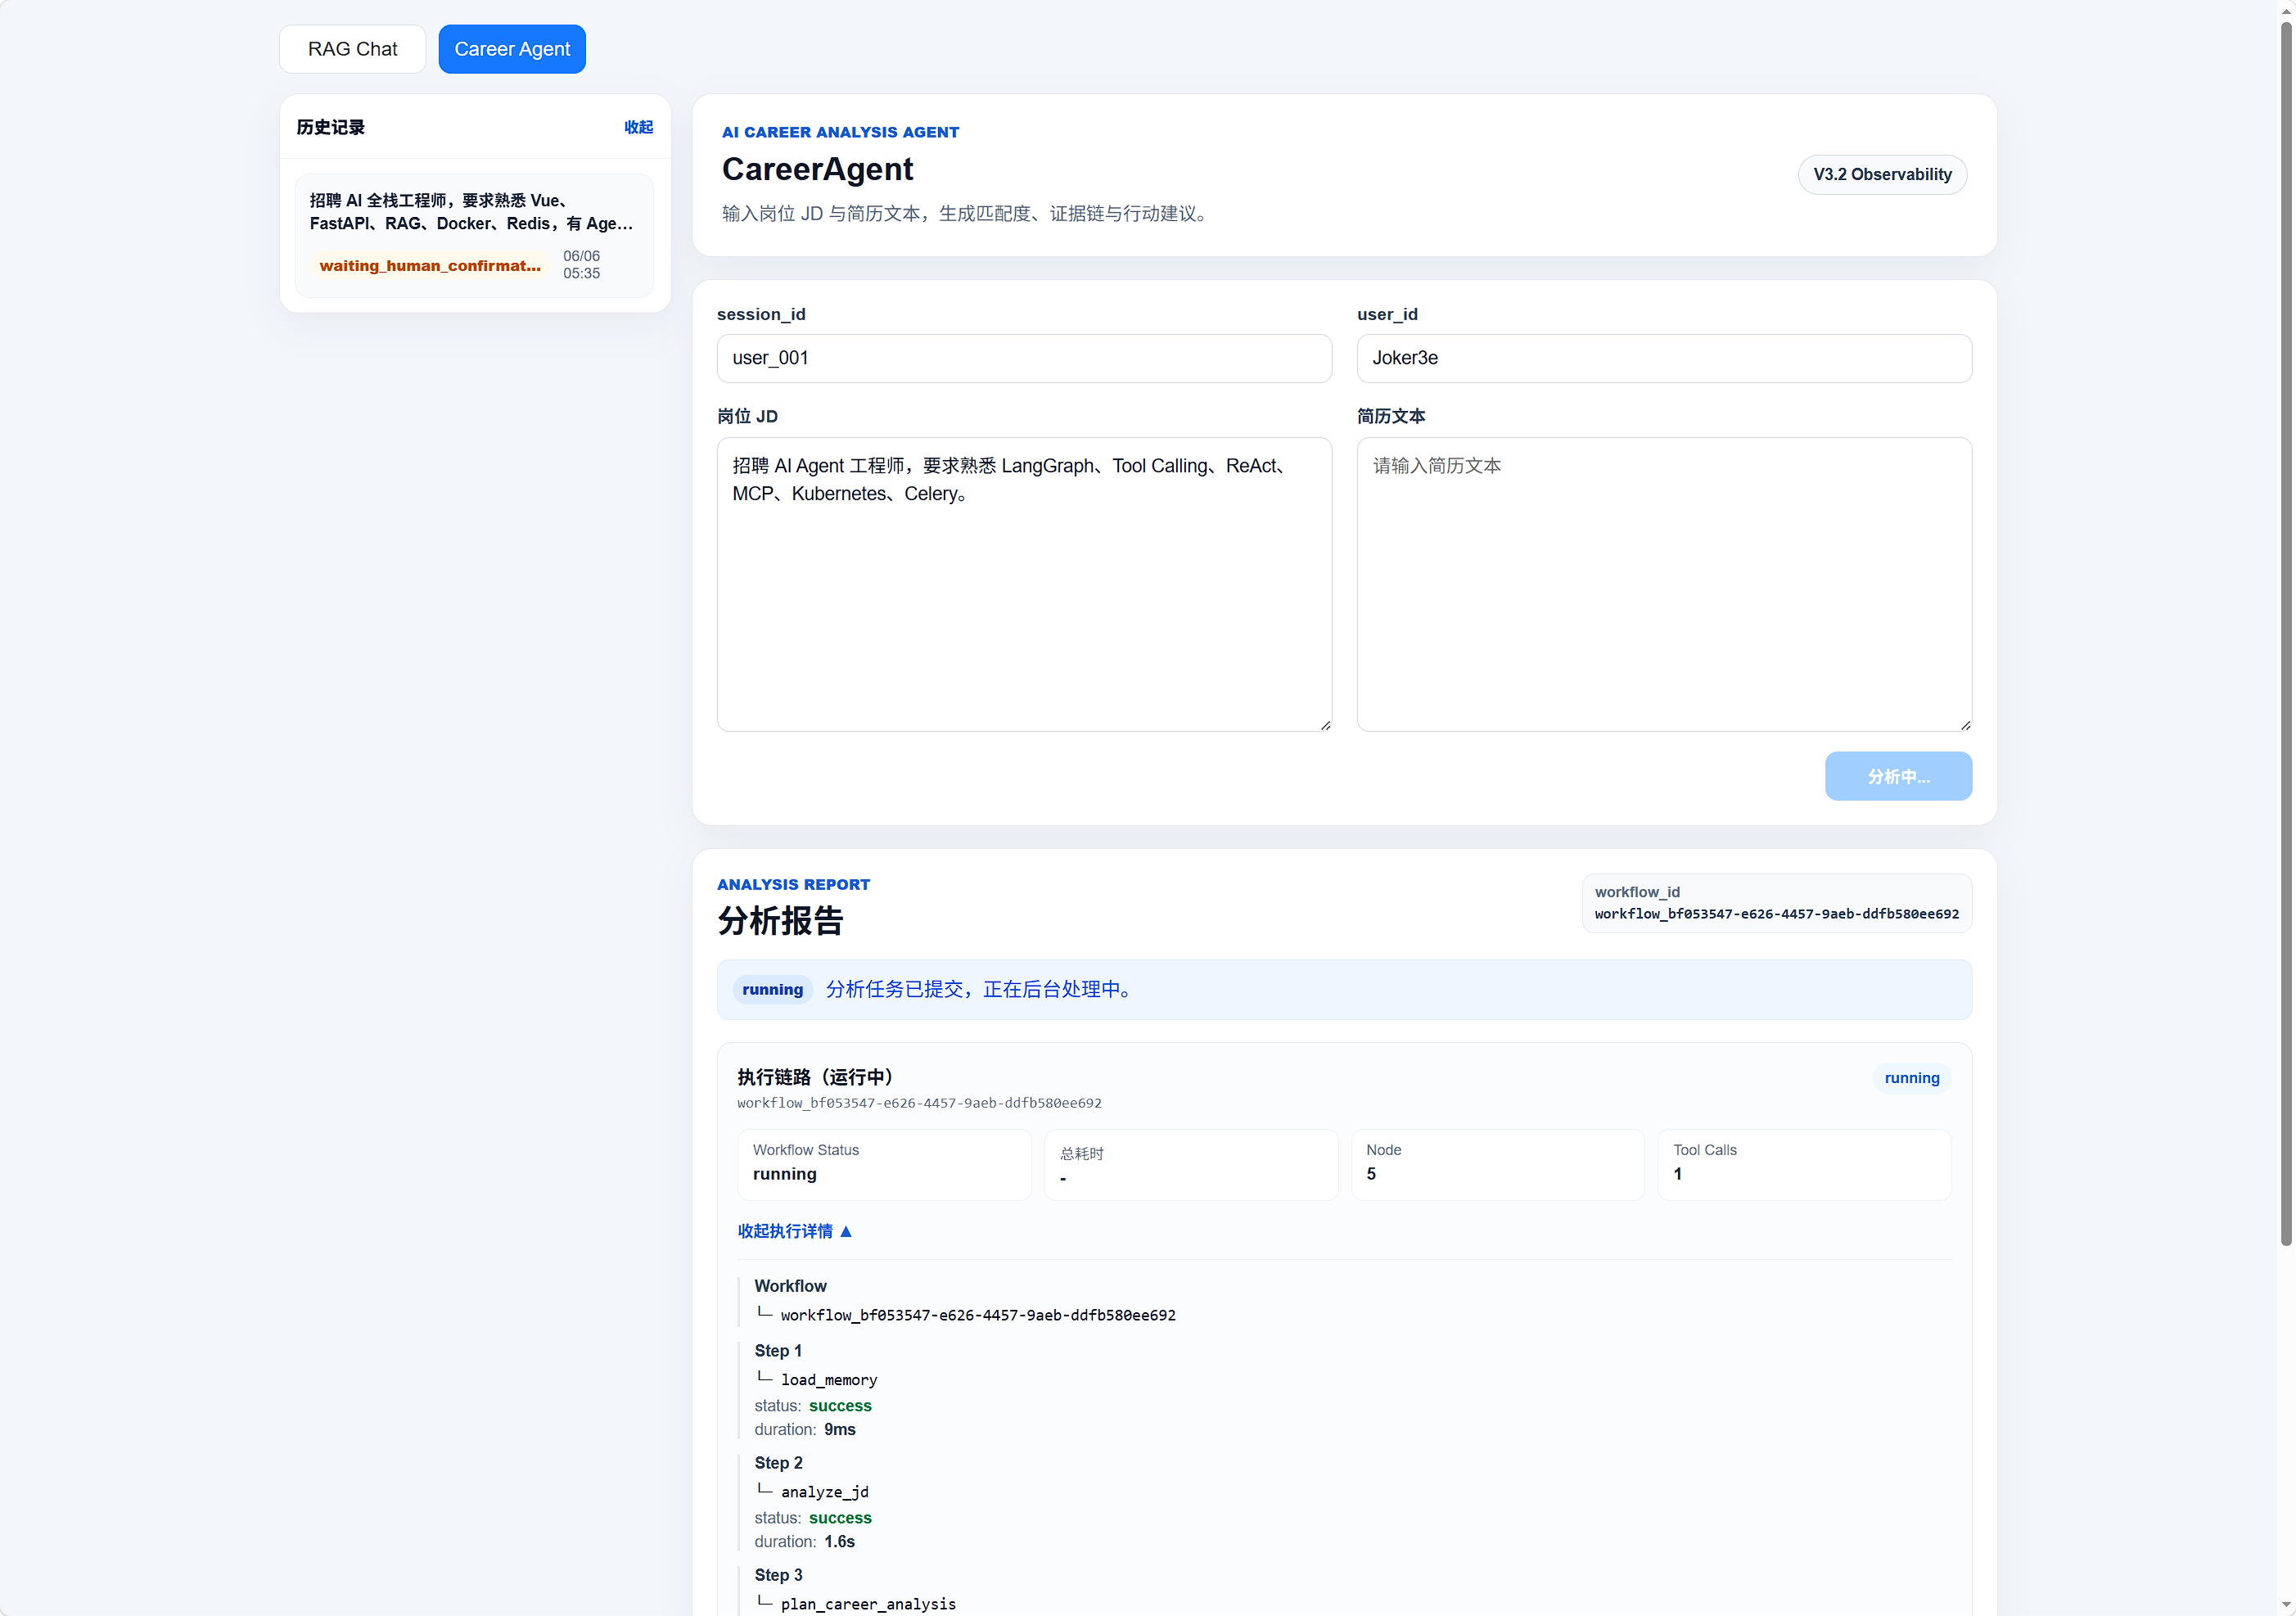
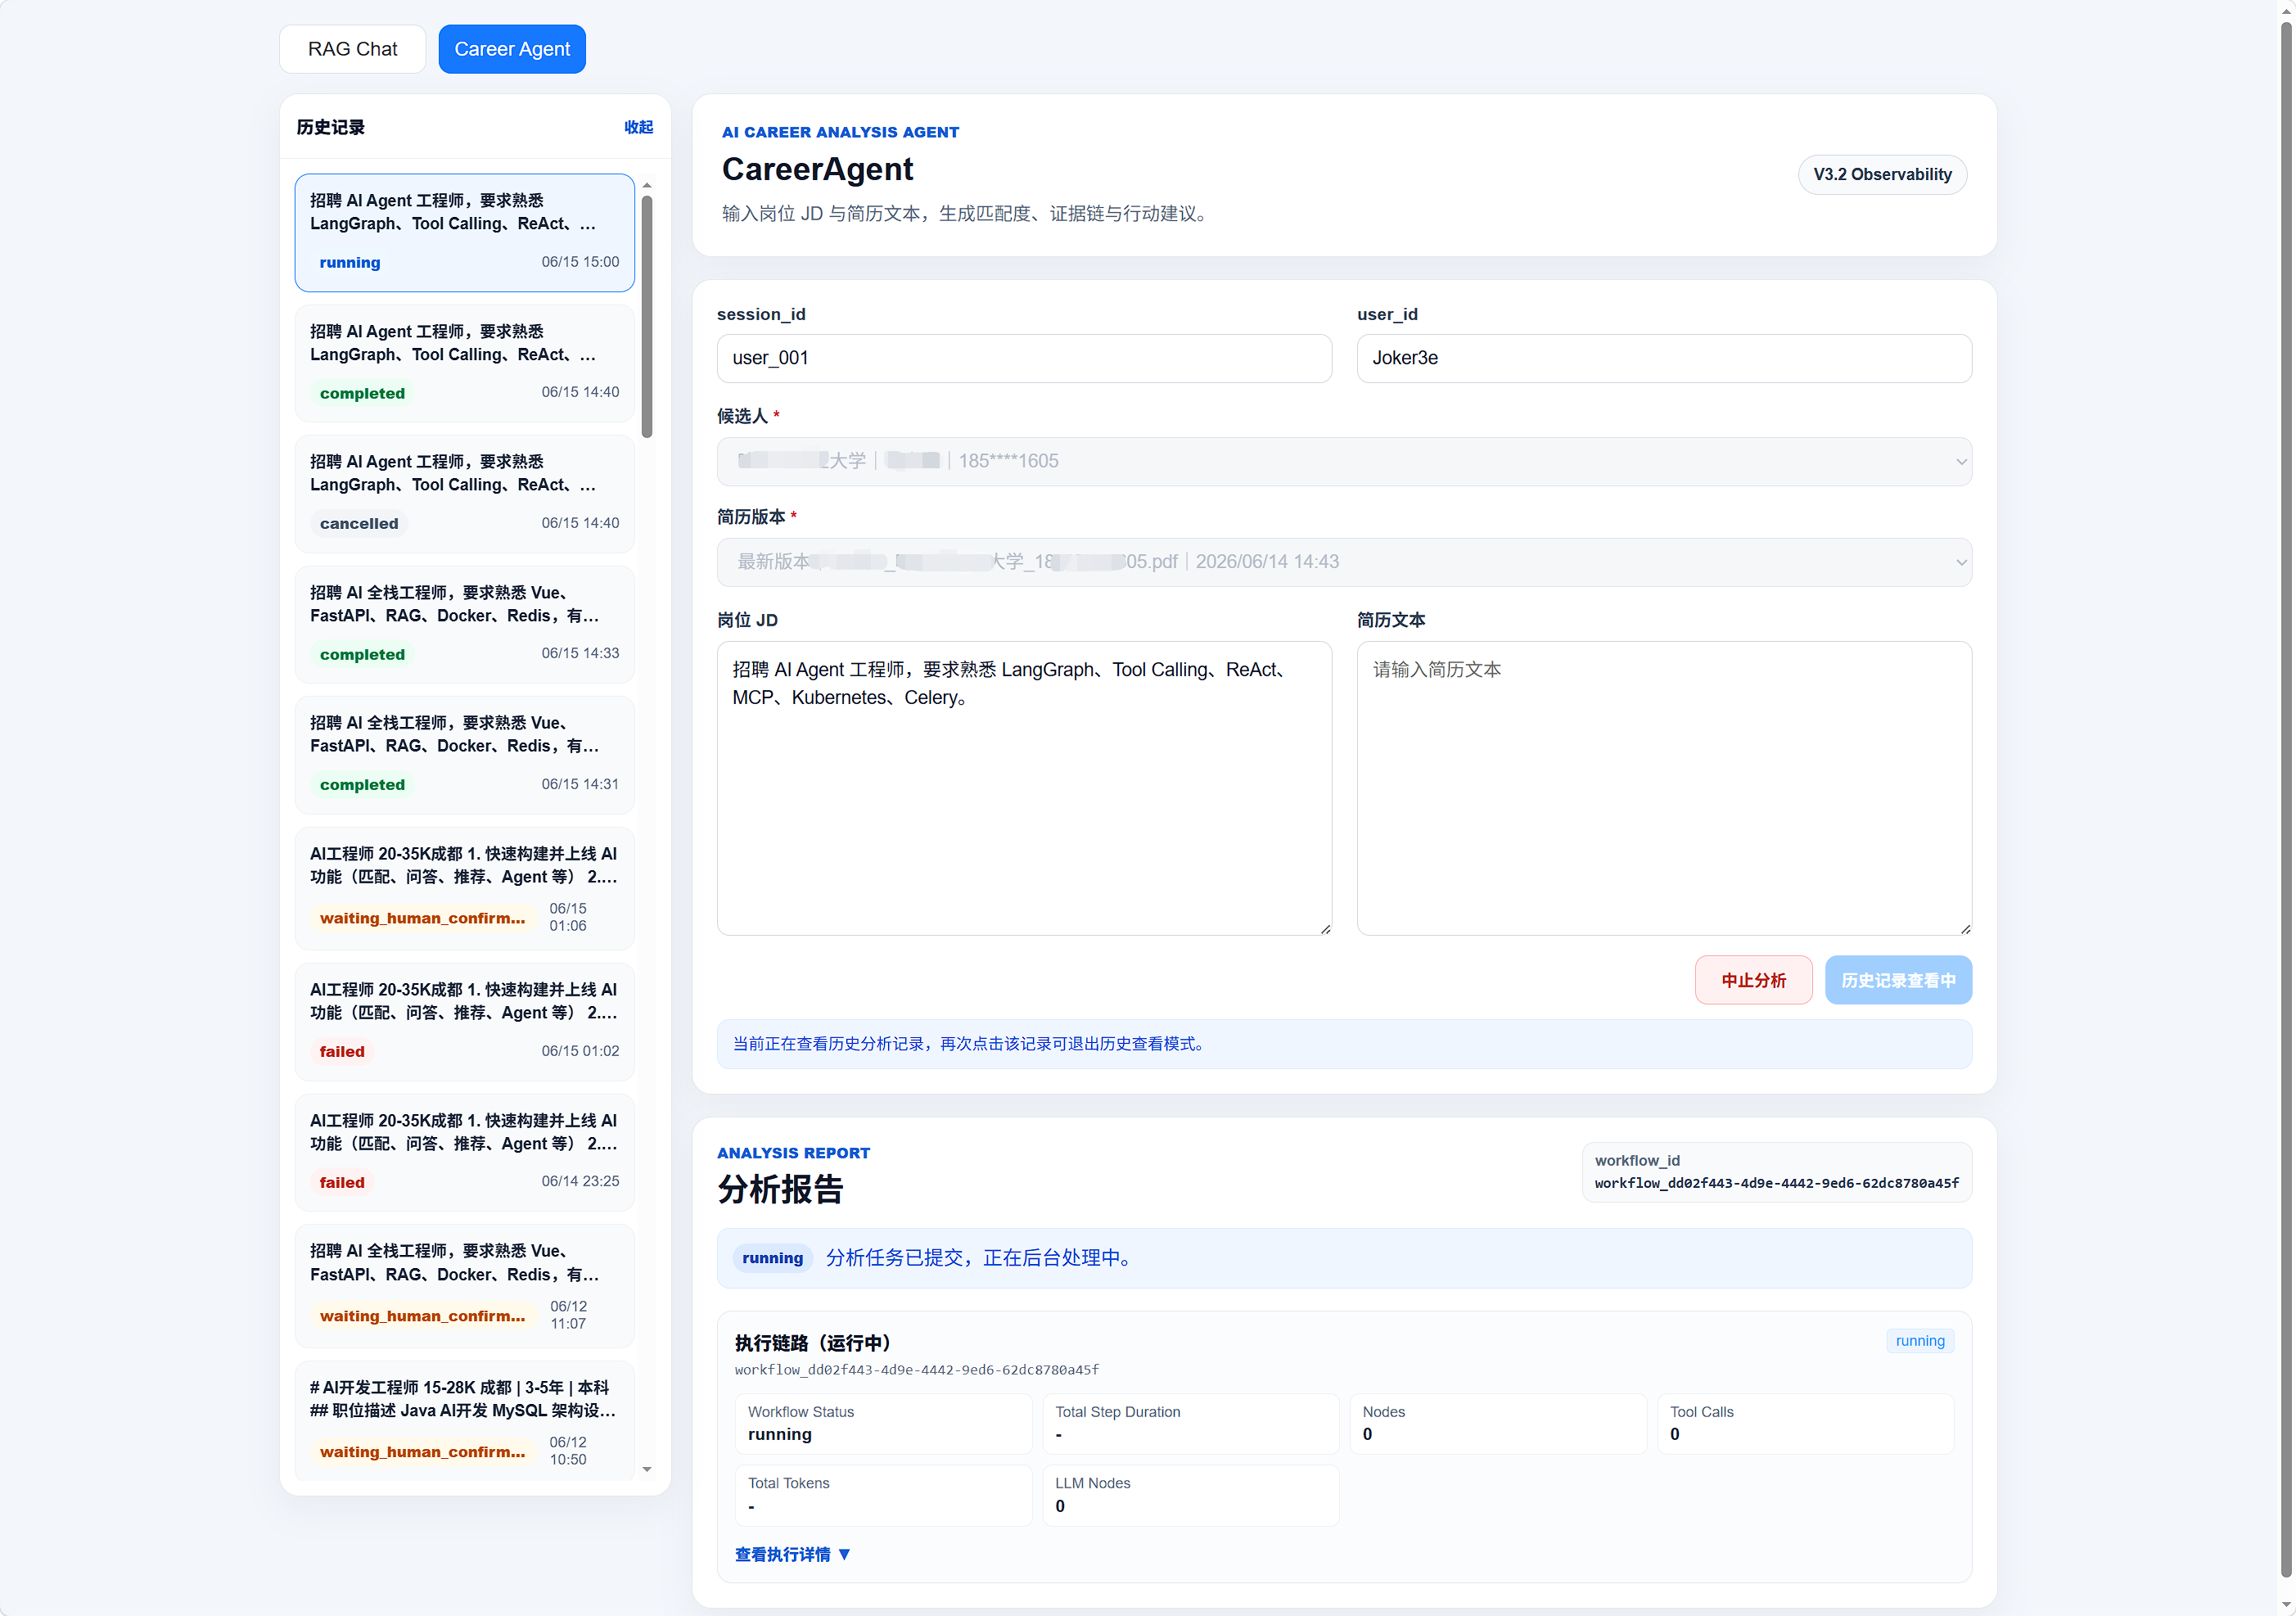
feat:简历分析和检索时增加候选人和简历版本选择

diff --git a/services/career_analysis_service.py b/services/career_analysis_service.py
@@ -1,5 +1,6 @@
 import logging
 import uuid
+import json
 
 from constants.workflow_status import CheckpointMode, WorkflowStatus
 from database.database import SessionLocal
@@ -23,6 +24,8 @@ def build_initial_state(
     job_description: str,
     resume_text: str,
     available_tools: list[dict],
+    candidate_id: str,
+    resume_id: str,
 ) -> dict:
     """
     构建职业分析工作流的初始状态
@@ -32,6 +35,8 @@ def build_initial_state(
         "session_id": session_id,
         "job_description": job_description,
         "resume_text": resume_text,
+        "candidate_id": candidate_id,
+        "resume_id": resume_id,
         "jd_analysis": {},
         "resume_profile": {},
         "match_result": {},
@@ -67,6 +72,8 @@ def build_initial_or_resume_state(
     job_description: str,
     resume_text: str,
     available_tools: list[dict],
+    candidate_id: str,
+    resume_id: str,
 ) -> dict:
     """
     构建职业分析工作流的初始状态或从checkpoint恢复状态
@@ -81,6 +88,8 @@ def build_initial_or_resume_state(
             job_description=job_description,
             resume_text=resume_text,
             available_tools=available_tools,
+            candidate_id=candidate_id,
+            resume_id=resume_id,
         )
 
     checkpoint_mode = checkpoint.get("checkpoint_mode", CheckpointMode.RECOVERY)
@@ -113,17 +122,29 @@ def build_initial_or_resume_state(
         "available_tools": available_tools,
         "workflow_status": WorkflowStatus.RUNNING.value,
         "resume_from_node": resume_from_node,
+        "candidate_id": candidate_id,
+        "resume_id": resume_id,
     }
 
 def submit_career_analysis(
     user_id: str,
     session_id: str,
+    candidate_id: str,
+    resume_id: str,
     job_description: str,
     resume_text: str,
     checkpoint_version: int = 1,
 ):
     workflow_id = f"workflow_{uuid.uuid4()}"
 
+    input_summary = json.dumps(
+        {
+            "candidate_id": candidate_id,
+            "resume_id": resume_id,
+            "job_description_preview": job_description[:300],
+        },
+        ensure_ascii=False,
+    )
     db = SessionLocal()
 
     try:
@@ -133,7 +154,7 @@ def submit_career_analysis(
             user_id=user_id,
             run_type="career_analysis",
             status=WorkflowStatus.QUEUED.value,
-            input_summary=job_description,
+            input_summary=input_summary,
             jd_text=job_description,
             match_score=None,
             started_at=None,
@@ -159,6 +180,8 @@ def submit_career_analysis(
         session_id=session_id,
         job_description=job_description,
         resume_text=resume_text,
+        candidate_id=candidate_id,
+        resume_id=resume_id,
     )
 
     return {
@@ -175,6 +198,8 @@ def execute_career_analysis_workflow(
     session_id: str,
     job_description: str,
     resume_text: str,
+    candidate_id: str,
+    resume_id: str,
 ):
     agent_run = get_agent_run_by_workflow_id(workflow_id=workflow_id)
     if agent_run and agent_run.status == WorkflowStatus.CANCELLED:
@@ -213,6 +238,8 @@ def execute_career_analysis_workflow(
         job_description=job_description,
         resume_text=resume_text,
         available_tools=available_tools,
+        candidate_id=candidate_id,
+        resume_id=resume_id,
     )
 
     # 如果状态来自checkpoint且当前节点是create_confirmation，则直接返回状态，不执行workflow

diff --git a/services/agent_run_query_service.py b/services/agent_run_query_service.py
@@ -1,4 +1,5 @@
 import logging
+import json
 
 from fastapi import HTTPException
 
@@ -31,6 +32,22 @@ def get_agent_run_detail(workflow_id: str):
     confirmation = get_latest_confirmation_by_workflow_id(
         workflow_id=workflow_id,
     )
+    input_summary = agent_run.input_summary
+    candidate_id = ""
+    resume_id = ""
+
+    try:
+        if input_summary:
+            input_summary_data = json.loads(input_summary)
+
+            if isinstance(input_summary_data, dict):
+                candidate_id = input_summary_data.get("candidate_id", "")
+                resume_id = input_summary_data.get("resume_id", "")
+
+    except json.JSONDecodeError:
+        # 兼容旧数据：以前 input_summary 可能只是普通 JD 文本，不是 JSON
+        candidate_id = ""
+        resume_id = ""
 
     return {
         "workflow_id": agent_run.workflow_id,
@@ -39,6 +56,8 @@ def get_agent_run_detail(workflow_id: str):
         "status": agent_run.status,
         "jd_text": agent_run.jd_text,
         "input_summary": agent_run.input_summary,
+        "candidate_id": candidate_id,
+        "resume_id": resume_id,
         "match_score": agent_run.match_score,
         "final_report": agent_run.final_report,
         "error_message": agent_run.error_message,
@@ -72,6 +91,7 @@ def get_user_agent_runs(
             "workflow_id": run.workflow_id,
             "status": run.status,
             "input_summary": run.input_summary,
+            "jd_text": run.jd_text,
             "created_at": run.created_at,
             "updated_at": run.updated_at,
         }

diff --git a/tools/rag_evidence_tool.py b/tools/rag_evidence_tool.py
@@ -8,12 +8,19 @@ from config.settings import RAG_SERVICE_URL
 def retrieve_evidence_from_rag(
     user_id: str,
     query: str,
+    candidate_id: str,
+    resume_id: str,
     workflow_id: str | None = None,
     step_id: int | None = None,
 ) -> list[dict]:
     url = f"{RAG_SERVICE_URL}/retrieve_evidence"
 
-    payload = {"user_id": user_id, "question": query}
+    payload = {
+        "user_id": user_id,
+        "question": query,
+        "candidate_id": candidate_id,
+        "resume_id": resume_id
+    }
 
     response = requests.post(url, json=payload, timeout=30)
 
@@ -27,10 +34,17 @@ def retrieve_evidence_from_rag(
 def mcp_retrieve_evidence_from_rag(
     user_id: str,
     query: str,
+    candidate_id: str,
+    resume_id: str
 ) -> list[dict]:
     url = f"{RAG_SERVICE_URL}/retrieve_evidence"
 
-    payload = {"user_id": user_id, "question": query}
+    payload = {
+        "user_id": user_id,
+        "question": query,
+        "candidate_id": candidate_id,
+        "resume_id": resume_id
+    }
 
     response = requests.post(url, json=payload, timeout=30)
 

diff --git a/agents/career_graph.py b/agents/career_graph.py
@@ -64,6 +64,8 @@ confirmation_service = ConfirmationService()
 # ============================================================
 class CareerAgentState(TypedDict, total=False):
     user_id: str
+    candidate_id: str
+    resume_id: str
     session_id: str
     job_description: str
     resume_text: str
@@ -132,6 +134,8 @@ def retrieve_resume_evidence(state: CareerAgentState):
             query=final_query,
             workflow_id=state["workflow_id"],
             step_id=state.get("_current_step_id"),
+            candidate_id=state.get("candidate_id"),
+            resume_id=state.get("resume_id"),
         )
 
         for evidence in evidence_list:
@@ -246,6 +250,8 @@ def execute_react_action(state: CareerAgentState):
         query=final_query,
         workflow_id=state["workflow_id"],
         step_id=state.get("_current_step_id"),
+        candidate_id=state.get("candidate_id"),
+        resume_id=state.get("resume_id"),
     )
 
     retry_count = state.get("retry_count", 0) + 1
@@ -989,12 +995,12 @@ def build_career_graph():
     graph.add_edge("execute_react_action", "reflect_evidence")
 
     graph.add_edge("extract_resume_profile", "match_job")
-    graph.add_conditional_edges("match_job", route_by_score)
-    graph.add_edge("generate_learning_plan", "generate_cover_letter")
-    graph.add_edge("generate_interview_tips", "generate_cover_letter")
-    graph.add_edge("generate_cover_letter", "generate_report")
+    # graph.add_conditional_edges("match_job", route_by_score)
+    # graph.add_edge("generate_learning_plan", "generate_cover_letter")
+    # graph.add_edge("generate_interview_tips", "generate_cover_letter")
+    # graph.add_edge("generate_cover_letter", "generate_report")
 
-    # graph.add_edge("match_job", "generate_report")
+    graph.add_edge("match_job", "generate_report")
     graph.add_edge("generate_report", "save_memory")
     graph.add_edge("save_memory", "create_confirmation")
     graph.add_edge("create_confirmation", END)

diff --git a/tools/mcp_tools.py b/tools/mcp_tools.py
@@ -15,6 +15,8 @@ logger = logging.getLogger(__name__)
 def retrieve_evidence_from_mcp_rag(
     user_id: str,
     query: str,
+    candidate_id: str,
+    resume_id: str,
     workflow_id: str | None = None,
     step_id: int | None = None,
 ) -> list[dict]:
@@ -23,6 +25,8 @@ def retrieve_evidence_from_mcp_rag(
         call_mcp_resume_rag_retriever(
             user_id=user_id,
             query=query,
+            candidate_id=candidate_id,
+            resume_id=resume_id,
         )
     )
 
@@ -30,6 +34,8 @@ def retrieve_evidence_from_mcp_rag(
 async def call_mcp_resume_rag_retriever(
     user_id: str,
     query: str,
+    candidate_id: str,
+    resume_id: str,
 ) -> list[dict]:
     # 告诉 MCP Client：
     # 如何启动 MCP Server
@@ -66,6 +72,8 @@ async def call_mcp_resume_rag_retriever(
                 arguments={
                     "user_id": user_id,
                     "query": query,
+                    "candidate_id": candidate_id,
+                    "resume_id": resume_id,
                 },
             )
 

diff --git a/main.py b/main.py
@@ -41,6 +41,8 @@ app.include_router(career_agent_router)
 class CareerAnalyzeRequest(BaseModel):
     session_id: str
     user_id: str
+    candidate_id: str
+    resume_id: str
     job_description: str
     resume_text: str
 
@@ -51,6 +53,8 @@ def analyze_career(request: CareerAnalyzeRequest):
     submit_result = submit_career_analysis(
         user_id=request.user_id,
         session_id=request.session_id,
+        candidate_id=request.candidate_id,
+        resume_id=request.resume_id,
         job_description=request.job_description,
         resume_text=request.resume_text,
     )

diff --git a/mcp_server.py b/mcp_server.py
@@ -11,6 +11,8 @@ logger = logging.getLogger(__name__)
 def resume_rag_retriever(
     user_id: str,
     query: str,
+    candidate_id: str,
+    resume_id: str
 ) -> list[dict]:
     """
     从候选人简历 RAG 知识库中检索与岗位能力维度相关的证据。
@@ -20,6 +22,8 @@ def resume_rag_retriever(
     return mcp_retrieve_evidence_from_rag(
         user_id=user_id,
         query=query,
+        candidate_id=candidate_id,
+        resume_id=resume_id
     )
 
 

diff --git a/tasks/career_analysis_task.py b/tasks/career_analysis_task.py
@@ -7,6 +7,8 @@ from services.career_analysis_service import execute_career_analysis_workflow
 def execute_career_analysis_task(
     workflow_id: str,
     user_id: str,
+    candidate_id: str,
+    resume_id: str,
     session_id: str,
     job_description: str,
     resume_text: str,
@@ -17,4 +19,6 @@ def execute_career_analysis_task(
         session_id=session_id,
         job_description=job_description,
         resume_text=resume_text,
+        candidate_id=candidate_id,
+        resume_id=resume_id,
     )